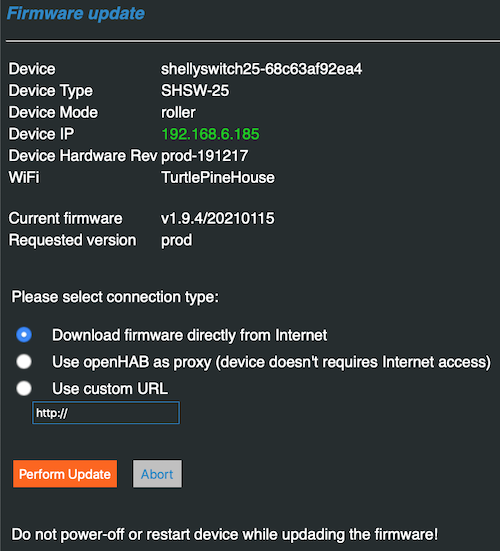
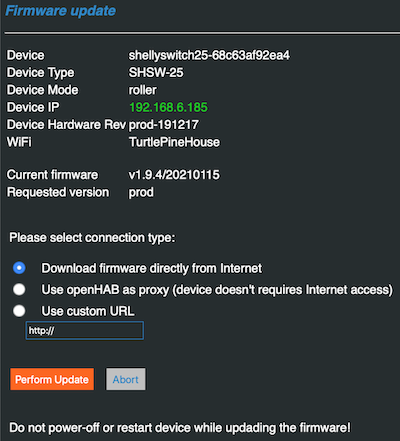
Manager improvements, fixed some doc issues

diff --git a/bundles/org.openhab.binding.shelly/src/main/resources/sniplets/fw_update1.html b/bundles/org.openhab.binding.shelly/src/main/resources/sniplets/fw_update1.html
@@ -18,12 +18,12 @@
     <form style="padding: 6px 6px;">
         <p>Please select connection type:</p>
         <input type="radio" name="connection" id="internet" value="internet" checked="checked"/>
-            <label for="internet">Download firmware directly from Internet</label><br/>
+            <label for="internet">Device downloads firmware directly from Internet</label><br/>
         <input type="radio" name="connection" id="local" value="local"/>
             <label for="local">Use openHAB as proxy (device doesn't requires Internet access)</label><br/>
         <input type="radio" name="connection" id="custom" value="custom"/>
             <label for="custom">Use custom URL</label>
-            <div style="padding-left: 20px;">
+            <div style="padding-left: 40px;">
                 <input type="text" name = "url" id="url" value="http://" style=" padding: 3px 3px;/>
                     <label for="url">&nbsp;</label>
             </div>

diff --git a/bundles/org.openhab.binding.shelly/src/main/resources/sniplets/ov_device.html b/bundles/org.openhab.binding.shelly/src/main/resources/sniplets/ov_device.html
@@ -12,7 +12,7 @@
                             <tr><td>Cloud Status</td><td>${cloudStatus}</td></tr>
                             <tr><td>MQTT Status</td><td>${mqttStatus}</td></tr>
                             <tr><td>Actions Skipped</td><td>${actionsSkipped}</td></tr>
-                            <tr><td>Max Internal Temp</td><td>${maxInternalTemp}°C</td></tr>
+                            <tr><td>Max Internal Temp</td><td>${maxInternalTemp}</td></tr>
                             <tr><td>&nbsp;<br/></td></tr>
                             ${deviceStatus}
                         </table>

diff --git a/bundles/org.openhab.binding.shelly/src/main/resources/sniplets/fw_update2.html b/bundles/org.openhab.binding.shelly/src/main/resources/sniplets/fw_update2.html
@@ -2,7 +2,7 @@
 	    <p class="caption">Firmware Update</p>
 	    <hr/><p/>
 	    <p class="message">Updating device ${deviceName} (${uid}) with version ${version}, connection type=${connection}</p>
-        <p class="message">Update url: ${updateUrl}</p>
+        <p class="message" sytle>Update url: ${updateUrl}</p>
         
 	    <span class="top-distance20">
 	       <p class="info">Wait 1-2 minutes, then check device UI at <a href="http://${deviceIp}" title="${thingName}" target="_blank">${deviceIp}</a>, section Firmware.</p>

diff --git a/bundles/org.openhab.binding.shelly/src/main/java/org/openhab/binding/shelly/internal/handler/ShellyRelayHandler.java b/bundles/org.openhab.binding.shelly/src/main/java/org/openhab/binding/shelly/internal/handler/ShellyRelayHandler.java
@@ -235,7 +235,7 @@ public class ShellyRelayHandler extends ShellyBaseHandler {
                 }
             }
 
-            if ((command == UpDownType.UP) || (command == OnOffType.ON)) {
+            if (command == UpDownType.UP || command == OnOffType.ON) {
                 logger.debug("{}: Open roller", thingName);
                 api.setRollerTurn(index, SHELLY_ALWD_ROLLER_TURN_OPEN);
                 int pos = profile.getRollerFav(config.favoriteUP - 1);
@@ -244,8 +244,7 @@ public class ShellyRelayHandler extends ShellyBaseHandler {
                     logger.debug("{}: Use favoriteUP id {} for positioning roller({}%)", thingName, config.favoriteUP,
                             pos);
                 }
-            }
-            if ((command == UpDownType.DOWN) || ((command == OnOffType.OFF))) {
+            } else if (command == UpDownType.DOWN || command == OnOffType.OFF) {
                 logger.debug("{}: Closing roller", thingName);
                 int pos = profile.getRollerFav(config.favoriteDOWN - 1);
                 if (pos > 0) {
@@ -289,8 +288,10 @@ public class ShellyRelayHandler extends ShellyBaseHandler {
             // make sure both are in sync
             if (isControl) {
                 int pos = SHELLY_MAX_ROLLER_POS - Math.max(0, Math.min(position, SHELLY_MAX_ROLLER_POS));
+                logger.debug("{}: Set roller position for control channel to {}", pos);
                 updateChannel(groupName, CHANNEL_ROL_CONTROL_CONTROL, new PercentType(pos));
             } else {
+                logger.debug("{}: Set roller position channel to {}", position);
                 updateChannel(groupName, CHANNEL_ROL_CONTROL_POS, new PercentType(position));
             }
         }
@@ -400,6 +401,8 @@ public class ShellyRelayHandler extends ShellyBaseHandler {
                     String state = getString(control.state);
                     if (state.equals(SHELLY_ALWD_ROLLER_TURN_STOP)) { // only valid in stop state
                         int pos = Math.max(SHELLY_MIN_ROLLER_POS, Math.min(control.currentPos, SHELLY_MAX_ROLLER_POS));
+                        logger.debug("{}: REST Update roller position: control={}, position={}", thingName,
+                                SHELLY_MAX_ROLLER_POS - pos, pos);
                         updated |= updateChannel(groupName, CHANNEL_ROL_CONTROL_CONTROL,
                                 toQuantityType((double) (SHELLY_MAX_ROLLER_POS - pos), SmartHomeUnits.PERCENT));
                         updated |= updateChannel(groupName, CHANNEL_ROL_CONTROL_POS,

diff --git a/bundles/org.openhab.binding.shelly/src/main/java/org/openhab/binding/shelly/internal/manager/ShellyManagerPage.java b/bundles/org.openhab.binding.shelly/src/main/java/org/openhab/binding/shelly/internal/manager/ShellyManagerPage.java
@@ -244,12 +244,14 @@ public class ShellyManagerPage {
         addAttribute(properties, th, CHANNEL_GROUP_DEV_STATUS, CHANNEL_DEVST_CHARGER);
 
         properties.put(ATTRIBUTE_DISCOVERABLE, String.valueOf(getBool(profile.settings.discoverable)));
+        properties.put(ATTRIBUTE_WIFI_RECOVERY, String.valueOf(getBool(profile.settings.wifiRecoveryReboot)));
+        properties.put(ATTRIBUTE_PWD_PROTECT,
+                profile.auth ? "enabled, user=" + getString(profile.settings.login.username) : "disabled");
         properties.put(ATTRIBUTE_TIMEZONE,
                 getString(profile.settings.timezone) + ", auto-detect: " + getBool(profile.settings.tzautodetect));
-        properties.put(ATTRIBUTE_WIFI_RECOVERY, String.valueOf(getBool(profile.settings.wifiRecoveryReboot)));
         properties.put(ATTRIBUTE_ACTIONS_SKIPPED,
                 profile.status.astats != null ? String.valueOf(profile.status.astats.skipped) : "n/a");
-        properties.put(ATTRIBUTE_MAX_ITEMP, stats.maxInternalTemp > 0 ? String.valueOf(stats.maxInternalTemp) : "n/a");
+        properties.put(ATTRIBUTE_MAX_ITEMP, stats.maxInternalTemp > 0 ? stats.maxInternalTemp + " °C" : "n/a");
 
         // Shelly H&T: When external power is connected the battery level is not valid
         if (!profile.isHT || (getInteger(profile.settings.externalPower) == 0)) {
@@ -391,12 +393,12 @@ public class ShellyManagerPage {
             fw = fromJson(gson, entry, FwRepoEntry.class);
             if (!mode.isEmpty()) {
                 // check for spilt firmware
-                String url = substringBefore(fw.url.toLowerCase(), ".zip") + "-" + mode + ".zip";
+                String url = substringBefore(fw.url, ".zip") + "-" + mode + ".zip";
                 if (testUrl(url)) {
-                    fw.beta_url = url;
+                    fw.url = url;
                     logger.debug("ShellyManager: Release Split-URL for device type {} is {}", deviceType, url);
                 }
-                url = substringBefore(fw.url.toLowerCase(), ".zip") + "-" + mode + ".zip";
+                url = substringBefore(fw.beta_url, ".zip") + "-" + mode + ".zip";
                 if (testUrl(url)) {
                     fw.beta_url = url;
                     logger.debug("ShellyManager: Beta Split-URL for device type {} is {}", deviceType, url);

diff --git a/bundles/org.openhab.binding.shelly/src/main/java/org/openhab/binding/shelly/internal/coap/ShellyCoIoTVersion2.java b/bundles/org.openhab.binding.shelly/src/main/java/org/openhab/binding/shelly/internal/coap/ShellyCoIoTVersion2.java
@@ -111,8 +111,12 @@ public class ShellyCoIoTVersion2 extends ShellyCoIoTProtocol implements ShellyCo
                 break;
             case "1103": // roller_0: S, rollerPos, 0-100, unknown -1
                 int pos = Math.max(SHELLY_MIN_ROLLER_POS, Math.min((int) value, SHELLY_MAX_ROLLER_POS));
+                logger.debug("{}: CoAP update roller position: control={}, position={}", thingName,
+                        SHELLY_MAX_ROLLER_POS - pos, pos);
                 updateChannel(updates, CHANNEL_GROUP_ROL_CONTROL, CHANNEL_ROL_CONTROL_CONTROL,
                         toQuantityType((double) (SHELLY_MAX_ROLLER_POS - pos), SmartHomeUnits.PERCENT));
+                updateChannel(updates, CHANNEL_GROUP_ROL_CONTROL, CHANNEL_ROL_CONTROL_POS,
+                        toQuantityType((double) pos, SmartHomeUnits.PERCENT));
                 break;
             case "1105": // S, valvle, closed/opened/not_connected/failure/closing/opening/checking or unbknown
                 updateChannel(updates, CHANNEL_GROUP_SENSOR, CHANNEL_SENSOR_VALVE, getStringType(s.valueStr));

diff --git a/bundles/org.openhab.binding.shelly/src/main/java/org/openhab/binding/shelly/internal/coap/ShellyCoapServer.java b/bundles/org.openhab.binding.shelly/src/main/java/org/openhab/binding/shelly/internal/coap/ShellyCoapServer.java
@@ -49,7 +49,7 @@ public class ShellyCoapServer {
     boolean started = false;
     private CoapEndpoint statusEndpoint = new CoapEndpoint.Builder().build();
     private @Nullable UdpMulticastConnector statusConnector;
-    private CoapServer server = new CoapServer(NetworkConfig.getStandard(), COIOT_PORT);;
+    private CoapServer server = new CoapServer(NetworkConfig.getStandard(), COIOT_PORT);
     private final Set<ShellyCoapListener> coapListeners = ConcurrentHashMap.newKeySet();
 
     protected class ShellyStatusListener extends CoapResource {

diff --git a/bundles/org.openhab.binding.shelly/src/main/java/org/openhab/binding/shelly/internal/handler/ShellyBaseHandler.java b/bundles/org.openhab.binding.shelly/src/main/java/org/openhab/binding/shelly/internal/handler/ShellyBaseHandler.java
@@ -505,7 +505,6 @@ public class ShellyBaseHandler extends BaseThingHandler implements ShellyDeviceL
         stats.remainingWatchdog = watchdog > 0 ? now() - watchdog : 0;
 
         // Check various device indicators like overheating
-        logger.debug("{}: status.update={}, lastUpdate={}", thingName, status.uptime, stats.lastUptime);
         if (checkRestarted(status)) {
             // Force re-initialization on next status update
             if (profile.alwaysOn) {

diff --git a/bundles/org.openhab.binding.shelly/src/main/java/org/openhab/binding/shelly/internal/manager/ShellyManagerConstants.java b/bundles/org.openhab.binding.shelly/src/main/java/org/openhab/binding/shelly/internal/manager/ShellyManagerConstants.java
@@ -85,6 +85,7 @@ public class ShellyManagerConstants {
     public static final String ATTRIBUTE_WIFI_RECOVERY = "wifiAutoRecovery";
     public static final String ATTRIBUTE_MAX_ITEMP = "maxInternalTemp";
     public static final String ATTRIBUTE_TIMEZONE = "deviceTimezone";
+    public static final String ATTRIBUTE_PWD_PROTECT = "passwordProtected";
 
     public static final String URLPARM_UID = "uid";
     public static final String URLPARM_DEVTYPE = "deviceType";

diff --git a/bundles/org.openhab.binding.shelly/doc/ShellyManager.md b/bundles/org.openhab.binding.shelly/doc/ShellyManager.md
@@ -58,34 +58,46 @@ The column S and Name display more information when hovering with the mouse over
 The Shelly Manager provides the following actions when the Thing is ONLINE. 
 They are available in the dropdown list in column Actions.
 
-![](images/manager/overview_actions.png)
-
-
 |Action          |Description                                                                      |
-|----------------|---------------------------------------------------------------------------------|
+|----------------|---------------------------------------------------------------------------------| 
 |Reset Statistics|Resets device statistic and clear the last alarm                                 |
 |Restart         |Restart the device and reconnect to WiFi                                         |
 |Protect         |Use binding's default credentials to protect device access with user and password|
-|Reset           |Do a firmware reset. Attention: The device will loose it's configuration         |
+|Enable Cloud    |Enable the Shelly Cloud connectivity                                             |
+|Disable Cloud   |Disable the Shelly Cloud connectivity (takes about 15sec to become active)       |
+|Reset           |Performs **firmware reset**; Attention: The device will loose it's configuration     |
+
+![](images/manager/overview_actions.png)
 
 ## Firmware Update
 
 The Shelly Manager simplifies the firmware update.
 You could select between different versions using the drop down list on the overview page.
+
 Shelly Manager integrates different sources
 - Allterco official releases: production and beta release (like in the device UI)
 - Older firmware release from the firmware archive - this is a community service
-- You could specify any custom url providing the firmware image, which is acceable for the device using http
+- You could specify any custom url providing the firmware image (e.g. a local web server), which is accessable for the device using http
 
+| | |
 |-|-|
-|![](images/manager/overview_versions.png)|All firmware releases are combined to the selection list.<br/>
-  Click on the version you want to install and Shelly Manager will generate the requested URL to trigger the firmware upgrade.|
+|![](images/manager/overview_versions.png)|All firmware releases are combined to the selection list.<br/>Click on the version you want to install and Shelly Manager will generate the requested URL to trigger the firmware upgrade.|
 
 The upgrade starts if you click "Perform Update".
 
-![](images/manager/overview_fwupgrade.png
+![](images/manager/fwupgrade.png)
 
 The device will download the firmware file, installs the update and restarts the device.
 Depending on the device type this takes between 10 and 60 seconds.
-The binding will automatically recover the device with the next status check (default: every 60 seconds).
+The binding will automatically recover the device with the next status check (as usual).
 
+### Connection types
+
+You could choose between 3 different update types
+* Internet: This triggers the regular update, the device needs to be connected to the Internet
+* Use openHAB as a proxy: In this case the binding directs the device to request the firmware from the openHAB system.
+The binding will then download the firmware from the selected sources and passes thos transparently to the device.
+This provides a security benefit: The device doesn't require Internet access, only the openHAB host, which could be filtered centrally.
+* Custom URL: In this case you could specify 
+
+The binding manages the download request with the proper download url.
